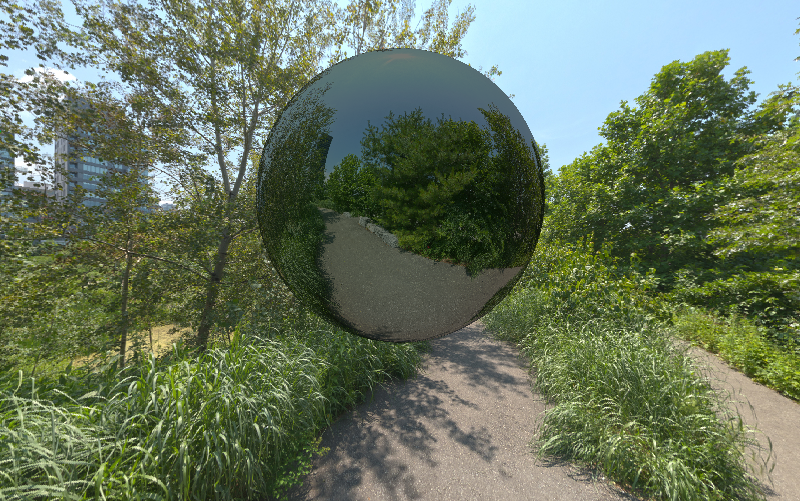
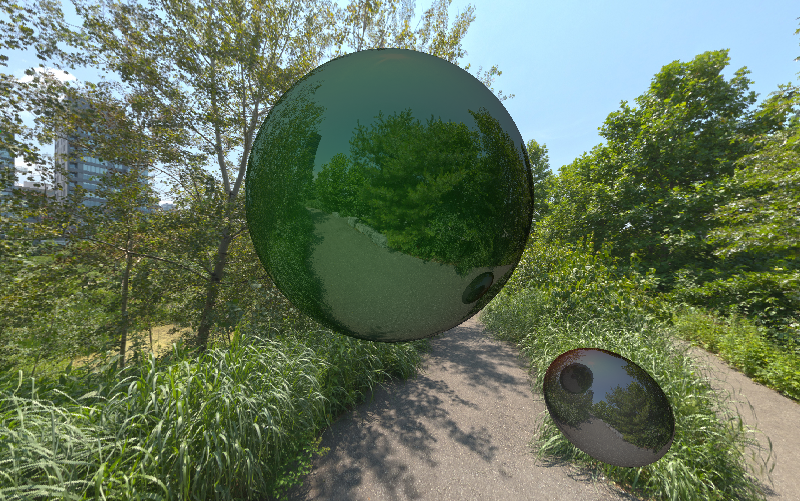
working refraction

Changed region(s): [[0.2812, 0.0898, 0.6875, 0.6886], [0.6562, 0.6886, 0.8438, 0.9281]]

diff --git a/lib/material.py b/lib/material.py
@@ -3,32 +3,47 @@ from lib.colour import Colour
 from lib.settings import BLACK
 
 class Material:
-    def __init__(self, colour, object):
+    def __init__(self, colour, object, is_translucent=0, refraction_index=1):
         self.albedo = colour
         self.object = object
-        self.reflectivity = 0.9
+        self.refraction_index = refraction_index
+        self.reflectivity = 0.2
+        self.refractivity = 0.7
+        self.is_translucent = is_translucent
 
     def get_colour(self, lights, pos, scene, ray):
         normal = self.object.get_normal(pos)
-        # colours = []
-        # for light in lights:
-        #     to_light = (light.pos - pos).normalise()
-        #     colours.append(self.albedo*light.colour*(to_light.dot(normal)))
-        # albedo = Colour.max(colours)
+        combined_colours = []
+        combined_weights = []
+        colours = []
+        for light in lights:
+            to_light = (light.pos - pos).normalise()
+            colours.append(self.albedo*light.colour*(to_light.dot(normal)))
+        albedo = Colour.max(colours)
+        combined_colours.append(albedo)
+        combined_weights.append(0.1)
         
-        # # reflection
-        # reflection = ray.dir - (normal * (2 * ray.dir.dot(normal)))
-        # reflection = scene.run_ray(Ray(pos, reflection))
-        
+        # reflection
+        if (normal - ray.dir).magnitude() > 1:
+            reflection = ray.dir - (normal * (2 * ray.dir.dot(normal)))
+            reflection = scene.run_ray(Ray(pos, reflection))
+            combined_colours.append(reflection)
+            combined_weights.append(self.reflectivity)
         # refraction
-        n = 1.5/1
-        cosI = abs(ray.dir.dot(normal))
-        sinT2 = (n**2) * (1.0 - (cosI**2))
-        if sinT2 > 1:
-            return BLACK
-        cosT = (1.0 - sinT2)**0.5
-        refraction = (ray.dir * n) + (normal * (n * cosI - cosT))
-        refraction = scene.run_ray(Ray(pos, refraction))
-        
-        
-        return refraction# Colour.average([albedo, reflection], [1 - self.reflectivity, self.reflectivity])
+        # compare with normal surface:
+        if self.is_translucent:
+            if (normal - ray.dir).magnitude() > 1:
+                n = 1/self.refraction_index
+            else:
+                n = self.refraction_index/1
+            cosI = abs(ray.dir.dot(normal))
+            sinT2 = (n**2) * (1.0 - (cosI**2))
+            if sinT2 > 1:
+                return BLACK
+            cosT = (1.0 - sinT2)**0.5
+            refraction = (ray.dir * n) + (normal * (n * cosI - cosT))
+            refraction = scene.run_ray(Ray(pos, refraction))
+            combined_colours.append(refraction)
+            combined_weights.append(self.refractivity)
+            
+        return Colour.average(combined_colours,combined_weights)

diff --git a/lib/scene.py b/lib/scene.py
@@ -6,7 +6,7 @@ from lib.material import *
 
 class Scene:
     def __init__(self):
-        self.objects = [Sphere(GREEN, Vec3(0, 0.5, 3), 1.5)] #, Sphere(MELON, Vec3(1, -0.5, 3), 0.6), Sphere(DEEP_BLUE, Vec3(-0.8, 00, 8), 1), Sphere(DEEP_BLUE, Vec3(0.9, 0.9, 1), 0.2)]
+        self.objects = [Sphere(GREEN, Vec3(0.1, 0.5, 3), 1.5), Sphere(WHITE, Vec3(-2, -1.5, 2.5), 0.5)] #, Sphere(MELON, Vec3(1, -0.5, 3), 0.6), Sphere(DEEP_BLUE, Vec3(-0.8, 00, 8), 1), Sphere(DEEP_BLUE, Vec3(0.9, 0.9, 1), 0.2)]
         self.lights = [Light(Vec3(1, 0, -1), Colour(255, 255, 255)), Light(Vec3(-1, 0, 3), Colour(255, 0, 0))]     
         
         image = Render("tester")

diff --git a/lib/object.py b/lib/object.py
@@ -14,8 +14,8 @@ class Entity:
         self.pos = pos
 
 class Sphere(Entity):
-    def __init__(self, colour, pos, radius):
-        material = Material(colour, self)
+    def __init__(self, colour, pos, radius, is_translucent=0, refraction_index=1):
+        material = Material(colour, self, is_translucent, refraction_index)
         super().__init__(material, pos)
         self.radius = radius
 
